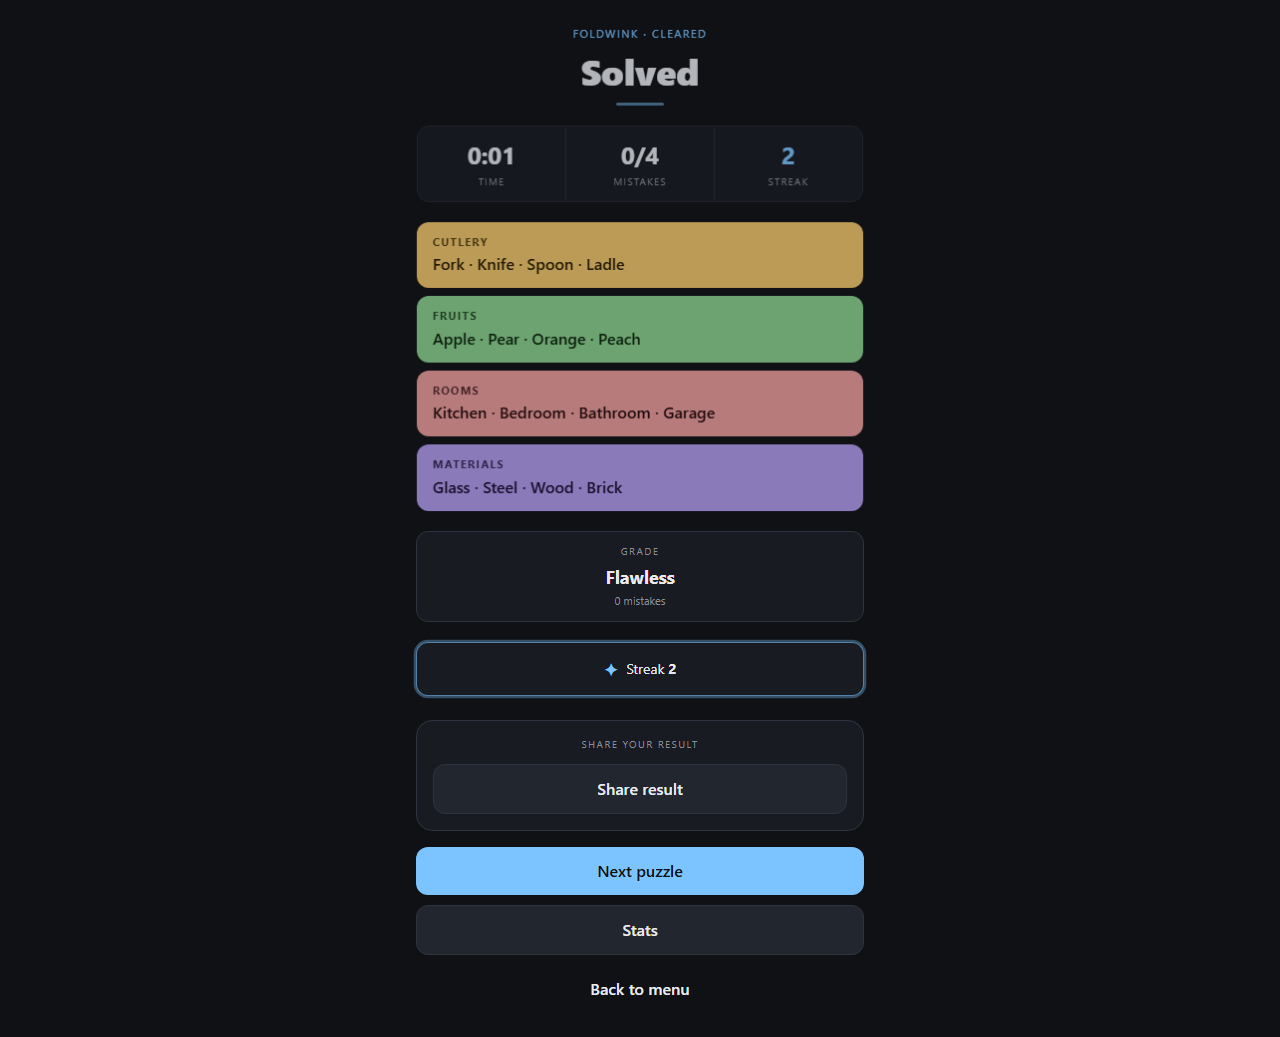
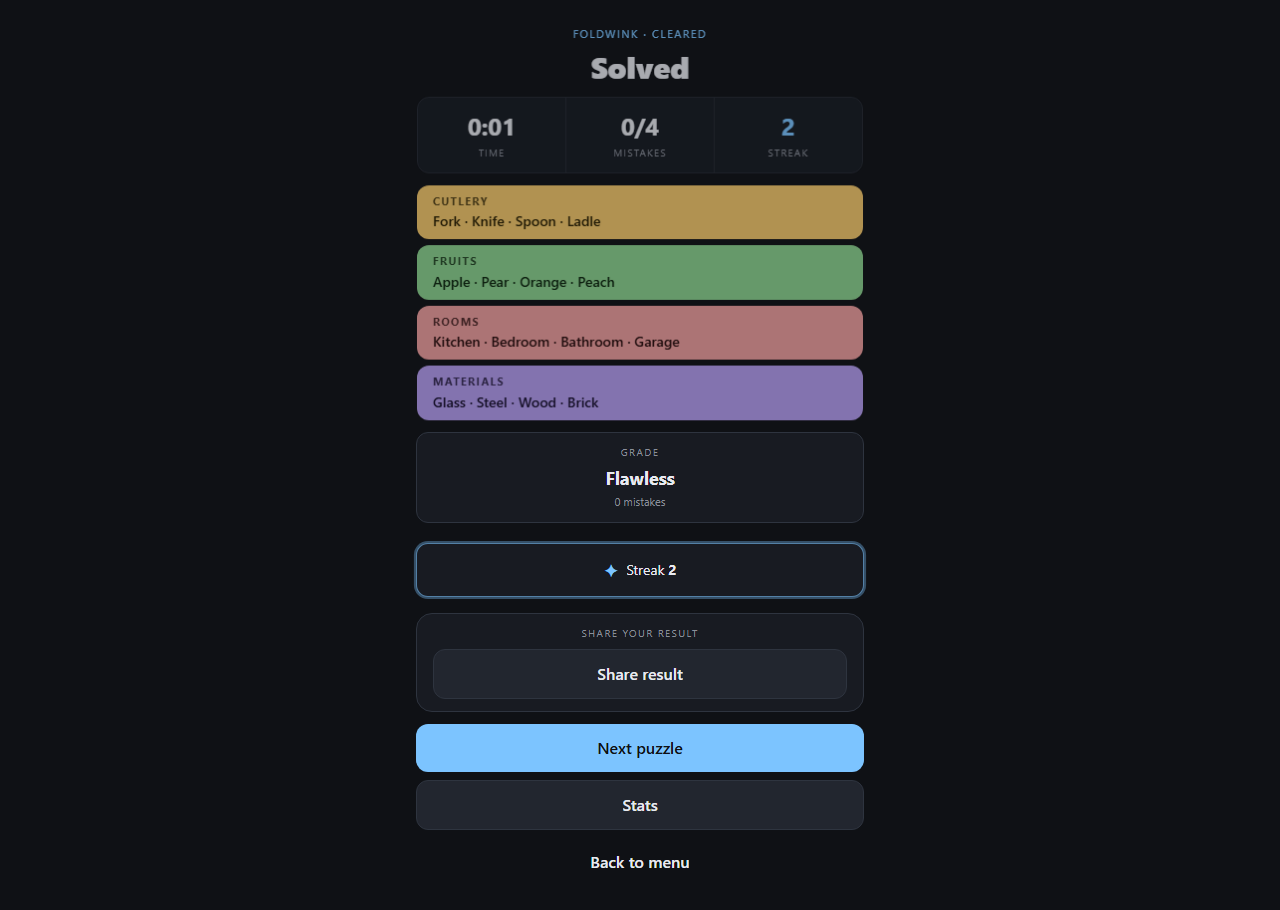
fix(result): compact result screen so Next puzzle CTA fits itch iframe
Itch.io embeds run our game in a fixed-height iframe. After the prior scroll
fix the CTA was reachable via scroll but still overflowed by ~95px on typical
800–900px iframe heights — the button appeared cut off at the iframe bottom.

Tightened the vertical rhythm on the result screen: drop the decorative
accent rule, shrink the Solved headline one step, compress group-row padding,
and trim mt-5/mt-6/p-4 spacing. Total saving ~123px on round 1, bringing CTA
fully in-viewport on Desktop 800, iOS 844, and Android 915 across all three
consecutive rounds (verified via scripts/results-flow-visual-qa.mjs).

Changed region(s): [[0.3125, 0.1231, 0.6875, 0.9846], [0.4375, 0.0308, 0.5625, 0.0923]]

diff --git a/src/screens/ResultScreen.tsx b/src/screens/ResultScreen.tsx
@@ -78,7 +78,7 @@ export function ResultScreen() {
 
       {isWin && (
         <div
-          className={`mt-5 rounded-xl px-4 py-3 text-center border ${
+          className={`mt-3 rounded-xl px-4 py-3 text-center border ${
             grade.noWinkMedium ? "bg-surface border-accent/60" : "bg-surface border-[#2e343f]"
           }`}
         >
@@ -110,7 +110,7 @@ export function ResultScreen() {
       )}
 
       {!isWin && (
-        <div className="mt-5 rounded-xl bg-surface border border-[#2e343f] px-4 py-3 text-center">
+        <div className="mt-3 rounded-xl bg-surface border border-[#2e343f] px-4 py-3 text-center">
           <div className="text-[10px] uppercase tracking-[0.14em] text-muted mb-1">
             Close one
           </div>
@@ -124,19 +124,19 @@ export function ResultScreen() {
       )}
 
       {isDaily && (
-        <div className="mt-5 rounded-xl bg-surface border border-[#2e343f] px-4 py-3">
+        <div className="mt-3 rounded-xl bg-surface border border-[#2e343f] px-4 py-3">
           <DailyCountdown />
         </div>
       )}
 
-      <div className="mt-6 rounded-2xl bg-surface border border-[#2e343f] p-4">
-        <div className="text-[10px] uppercase tracking-[0.14em] text-muted text-center mb-3">
+      <div className="mt-4 rounded-2xl bg-surface border border-[#2e343f] px-4 py-3">
+        <div className="text-[10px] uppercase tracking-[0.14em] text-muted text-center mb-2">
           Share your result
         </div>
         <ShareButton text={shareText} card={cardOptions} />
       </div>
 
-      <div className="mt-4 flex flex-col gap-2.5" data-testid="result-cta-stack">
+      <div className="mt-3 flex flex-col gap-2" data-testid="result-cta-stack">
         {!isDaily && (
           <Button onClick={startNextSame} data-testid="result-next-puzzle">
             Next puzzle

diff --git a/src/components/ResultSummary.tsx b/src/components/ResultSummary.tsx
@@ -15,17 +15,16 @@ export function ResultSummary({ summary, puzzle, currentStreak }: Props) {
   const headline = isWin ? "Solved" : "Out of mistakes";
 
   return (
-    <div className="space-y-5 fw-result-pop">
+    <div className="space-y-3 fw-result-pop">
       <div className="text-center">
         <div
-          className={`text-[11px] uppercase tracking-[0.14em] mb-2 ${
+          className={`text-[11px] uppercase tracking-[0.14em] mb-1.5 ${
             isWin ? "text-accent" : "text-muted"
           }`}
         >
           {isWin ? "Foldwink · cleared" : "Foldwink · close call"}
         </div>
-        <div className="text-4xl font-extrabold mb-3">{headline}</div>
-        <div className="mx-auto h-[3px] w-12 rounded-full bg-accent/60" />
+        <div className="text-3xl font-extrabold">{headline}</div>
       </div>
 
       <StatStrip
@@ -47,16 +46,16 @@ export function ResultSummary({ summary, puzzle, currentStreak }: Props) {
         ]}
       />
 
-      <div className="space-y-2">
+      <div className="space-y-1.5">
         {puzzle.groups.map((g) => (
           <div
             key={g.id}
-            className={`rounded-xl px-4 py-3 ${solvedClassForGroup(puzzle, g.id)}`}
+            className={`rounded-xl px-4 py-2 ${solvedClassForGroup(puzzle, g.id)}`}
           >
             <div className="text-[11px] uppercase tracking-[0.12em] font-bold opacity-80">
               {g.label}
             </div>
-            <div className="font-semibold mt-0.5">{g.items.join(" · ")}</div>
+            <div className="font-semibold mt-0.5 text-sm">{g.items.join(" · ")}</div>
           </div>
         ))}
       </div>
